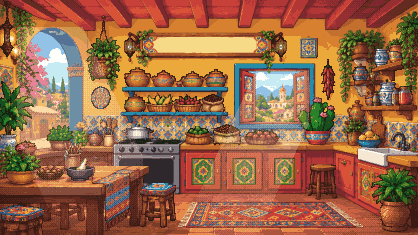
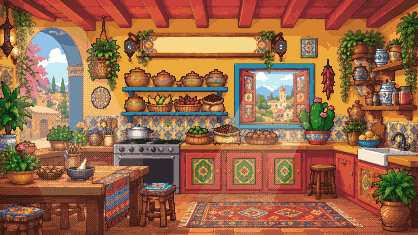
Unlit lanterns by day: dark grey glass and matte red paper, with lantern photo references
Lit glass in lamps_off is now shaded dark grey with no warm hue (the Chinese red paper lanterns
turn matte red), as in photos of unlit lanterns by day; the afternoon goes through hour() too.
references/lanterns/ has photos of unlit (day) and lit (night) lanterns from Unsplash, a CC0
pixel-art on/off sprite sheet, credits and a sheet comparing them with our lanterns.

diff --git a/design/pixel-art/day_night.py b/design/pixel-art/day_night.py
@@ -51,6 +51,7 @@ SUNS = {
 FLAMES = {"mediterranean": [(265, 530, 420), (583, 595, 110)]}
 LANTERN_REACH = 230
 CANDLES = {"mediterranean": [(583, 595)]}    # flames put out by day (x, y on the original); the hearth fire stays
+UNLIT = {"chinese": "paper"}                 # what an unlit lantern is made of (default glass), see lamps_off
 HEARTH_CORE = 60                             # a v5 light with a core this big (on the original) is a fire: it stays
 
 # The hours. room: color multipliers; cool: how much the shadows turn blue; gold: how much the highlights turn
@@ -129,8 +130,9 @@ def beams(boxes: list[tuple[int, int, int, int]], shape: tuple[int, int], sun_le
 
 def lamps_off(name: str) -> np.ndarray:
     """The v5 kitchen by day with its lamps off: the v5 lighting pass (trace_kitchens.light) run again on the unlit
-    kitchen with only the windows and the hearth fire, then each lantern's lit glass (bright, warm pixels) made dark
-    and dull and each candle flame put out. Every color stays in the kitchen's palette."""
+    kitchen with only the windows and the hearth fire, then each lantern's lit glass (bright, warm pixels) shaded
+    dark grey with no warm hue (red paper lanterns turn matte red), as in photos of unlit lanterns by day
+    (references/lanterns/), and each candle flame put out. hour() puts the result back on a palette."""
     folder = TRACED / name
     unlit = np.array(Image.open(folder / f"{name}_unlit.png").convert("RGB"))
     pal = np.unique(unlit.reshape(-1, 3), axis=0)
@@ -144,9 +146,15 @@ def lamps_off(name: str) -> np.ndarray:
     for key, (x, y, mask) in shapes.items():
         if "lantern" in key or "lamp" in key:
             part = img[y:y + mask.shape[0], x:x + mask.shape[1]].astype(np.float32)
-            lit = mask & (part.max(axis=2) > 165) & ((part[..., 0] - part[..., 2] > 45) | (part.min(axis=2) > 215))
-            part[lit] = part[lit] * 0.5 + part[lit].mean(axis=1, keepdims=True) * 0.12
-            img[y:y + mask.shape[0], x:x + mask.shape[1]] = tk.to_palette(part.astype(np.uint8), pal)
+            lit = mask & (part.mean(axis=2) > 95) & ((part[..., 0] - part[..., 2] > 35) | (part.min(axis=2) > 200))
+            glow = part[lit]
+            if UNLIT.get(name) == "paper":                             # red paper: matte red, no orange or yellow
+                glow = glow * np.array((0.66, 0.26, 0.30), np.float32)
+            else:                                                      # glass: dark and grey, no warm hue
+                grey = glow.mean(axis=1, keepdims=True)
+                glow = (grey * 0.8 + glow * 0.2) * 0.42 + np.array((4, 8, 14), np.float32)
+            part[lit] = glow
+            img[y:y + mask.shape[0], x:x + mask.shape[1]] = part.astype(np.uint8)
     for cx, cy in CANDLES.get(name, []):
         cx, cy = cx // SCALE, cy // SCALE
         part = img[cy - 8:cy + 3, cx - 4:cx + 5].astype(np.int32)
@@ -244,8 +252,7 @@ def main(names: list[str]) -> None:
         Image.fromarray(off).save(folder / f"{name}_lamps_off.png")
         versions = {}
         for time in TIMES:
-            # the afternoon is the v5 kitchen with the lamps off, unless its sun has to move
-            img = off if time == "afternoon" and name not in SUNS else hour(name, day, off, time)
+            img = hour(name, day, off, time)
             versions[time] = img
             Image.fromarray(img).save(folder / f"{name}_{time}.png")
             Image.fromarray(img).resize((img.shape[1] * 4, img.shape[0] * 4), Image.NEAREST).save(folder / f"{name}_{time}_x4.png")

diff --git a/design/pixel-art/references/lanterns/README.md b/design/pixel-art/references/lanterns/README.md
@@ -1,0 +1,21 @@
+# Lantern references
+
+Photos of lanterns unlit by day and lit at night, for the kitchens' day and night versions (`../../day_night.py`,
+`lamps_off`). What they show: an unlit lantern's glass is grey or dark and reflects the room, with no warm hue; an
+unlit red paper lantern is a flat, matte red; lit, the glass or paper glows yellow-orange and lights the wall.
+
+`lanterns_sheet.png` puts the photos next to our lanterns (afternoon, off | night, on).
+
+| File | Shows | Source and license |
+|---|---|---|
+| unlit_day_metal_glass.jpg | Metal and glass lantern by day | [Unsplash](https://images.unsplash.com/photo-1778486897678-b0bd710edf5a), Unsplash License |
+| unlit_day_niche.jpg | Small lantern in a wall niche by day | [Unsplash](https://images.unsplash.com/photo-1786437548087-3ff73341a247), Unsplash License |
+| unlit_shop_brass.jpg | Unlit brass lanterns in a shop | [Unsplash](https://images.unsplash.com/photo-1760727467204-981086f6adfc), Unsplash License |
+| unlit_day_red_paper.jpg | Red paper lanterns by day | [Unsplash](https://images.unsplash.com/photo-1714713882185-e7c43e85d8fa), Unsplash License |
+| lit_night_brass.jpg | Pierced brass lantern lit on a wall | [Unsplash](https://images.unsplash.com/photo-1779599790541-2f50889661ed), Unsplash License |
+| lit_dusk_glass.jpg | Glass lantern lit at dusk | [Unsplash](https://images.unsplash.com/photo-1776663158496-c98cbea8289f), Unsplash License |
+| lit_night_red_paper.jpg | Red and yellow paper lanterns lit at night | [Unsplash](https://images.unsplash.com/photo-1719358669104-5cfa023a60a7), Unsplash License |
+| lit_night_red_paper_row.jpg | Rows of red paper lanterns lit | [Unsplash](https://images.unsplash.com/photo-1745431185638-3d52df7e079a), Unsplash License |
+| pixel_lights_on_off_cc0.png | Pixel-art lights turning on and off (sprite sheet) | [OpenGameArt, Pixel Lights 16x16](https://opengameart.org/content/pixel-lights-16x16), CC0 |
+
+References only: none of these pictures is used in the app.
